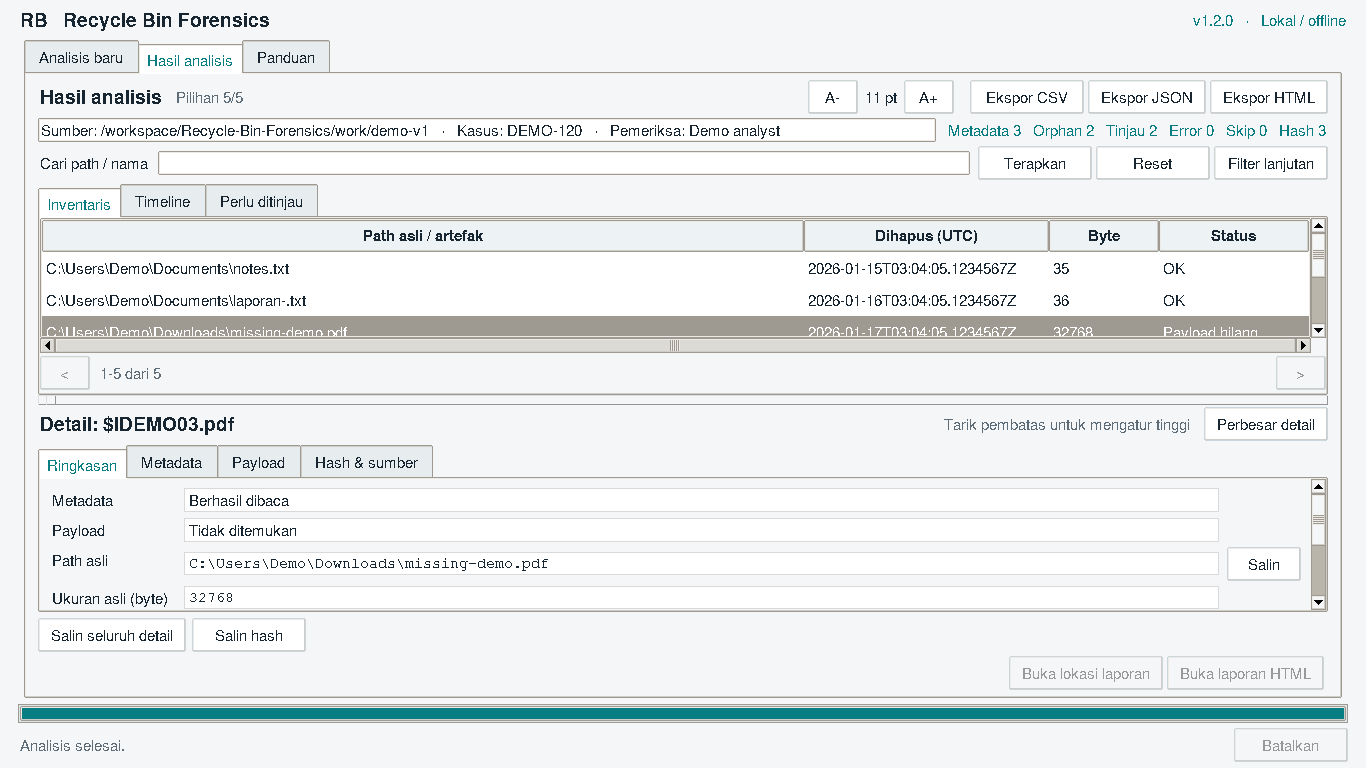
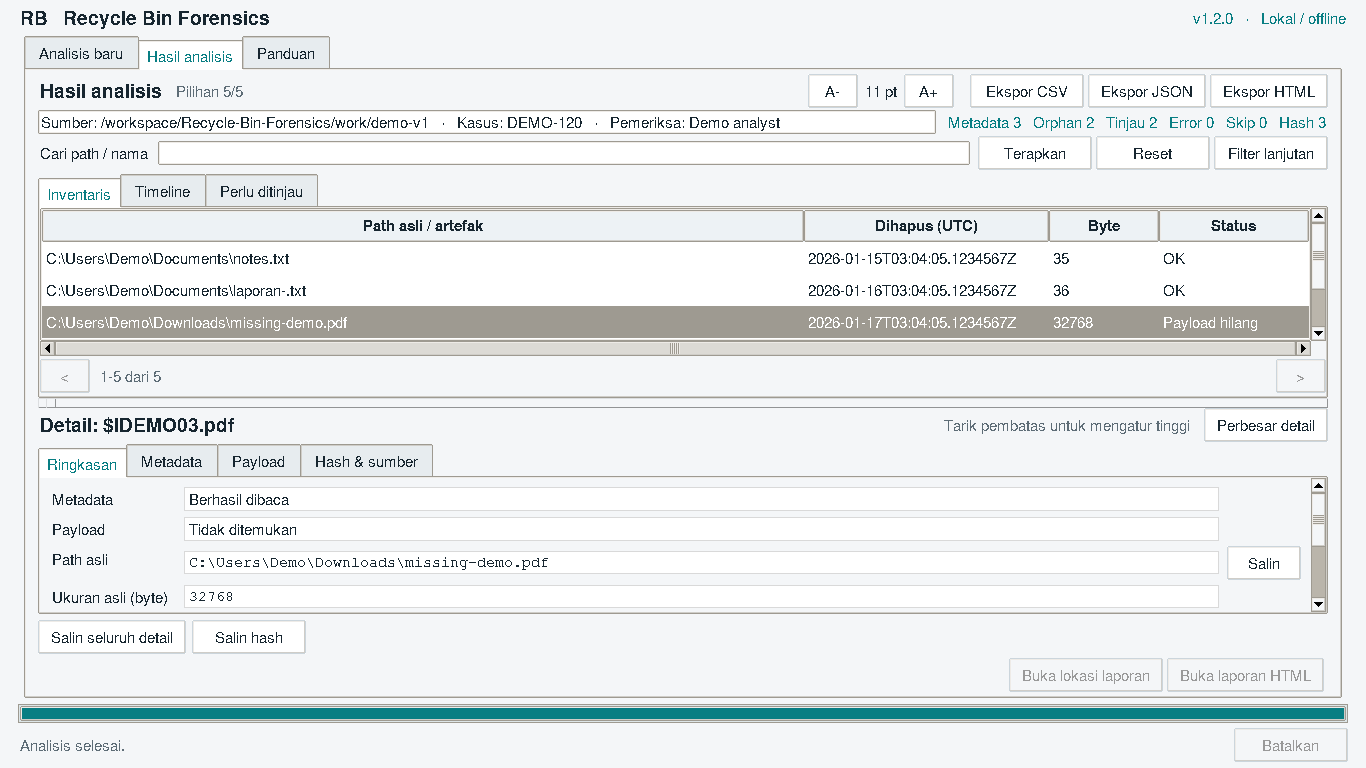
Keep desktop controls accessible across Tk versions and text sizes

Changed region(s): [[0.0, 0.0, 0.9839, 0.875], [0.7379, 0.8438, 0.9531, 0.9062], [0.3382, 0.125, 0.5842, 0.1875]]

diff --git a/src/rbinforensics/gui.py b/src/rbinforensics/gui.py
@@ -231,7 +231,7 @@ class ForensicsApp(tk.Tk if tk is not None else object):
         return widget
 
     def _build(self) -> None:
-        top = ttk.Frame(self, padding=(18, 7))
+        top = ttk.Frame(self, padding=(18, 5))
         top.pack(fill="x")
         ttk.Label(top, text="RB   Recycle Bin Forensics", style="Brand.TLabel").pack(side="left")
         ttk.Label(top, text=f"v{__version__}   ·   Lokal / offline", foreground=TEAL).pack(
@@ -240,7 +240,7 @@ class ForensicsApp(tk.Tk if tk is not None else object):
         self.notebook = ttk.Notebook(self)
         self.notebook.pack(fill="both", expand=True, padx=24)
         self.scan_page = ttk.Frame(self.notebook, padding=22)
-        self.results_page = ttk.Frame(self.notebook, padding=(12, 6))
+        self.results_page = ttk.Frame(self.notebook, padding=(12, 4))
         self.help_page = ttk.Frame(self.notebook, padding=22)
         for page, label in (
             (self.scan_page, "Analisis baru"),
@@ -377,20 +377,33 @@ class ForensicsApp(tk.Tk if tk is not None else object):
         parent = self.results_page
         bar = ttk.Frame(parent)
         bar.pack(fill="x")
-        ttk.Label(bar, text="Hasil analisis", style="Brand.TLabel").pack(side="left")
-        ttk.Label(bar, textvariable=self.selection_count_var, style="Muted.TLabel").pack(
+        bar.columnconfigure(0, weight=1)
+        heading = ttk.Frame(bar)
+        heading.grid(row=0, column=0, sticky="w")
+        ttk.Label(heading, text="Hasil analisis", style="Brand.TLabel").pack(side="left")
+        ttk.Label(heading, textvariable=self.selection_count_var, style="Muted.TLabel").pack(
             side="left", padx=10
         )
+        controls = ttk.Frame(bar)
+        controls.grid(row=0, column=1, sticky="e")
+
+        def fit_toolbar(_event=None) -> None:
+            stacked = heading.winfo_reqwidth() + controls.winfo_reqwidth() > bar.winfo_width()
+            controls.grid_configure(row=1 if stacked else 0, column=0 if stacked else 1)
+
+        bar.bind("<Configure>", fit_toolbar)
+        heading.bind("<Configure>", fit_toolbar)
+        controls.bind("<Configure>", fit_toolbar)
         self.export_buttons = []
         for format_name in ("html", "json", "csv"):
             button = ttk.Button(
-                bar,
+                controls,
                 text=f"Ekspor {format_name.upper()}",
                 command=lambda f=format_name: self.export_report(f),
             )
             button.pack(side="right", padx=(4, 0))
             self.export_buttons.append(button)
-        fonts = ttk.Frame(bar)
+        fonts = ttk.Frame(controls)
         fonts.pack(side="right", padx=12)
         self.font_smaller = ttk.Button(
             fonts, text="A-", width=3, command=lambda: self.change_font_size(-1)
@@ -402,7 +415,7 @@ class ForensicsApp(tk.Tk if tk is not None else object):
         )
         self.font_larger.pack(side="left")
         context_row = ttk.Frame(parent)
-        context_row.pack(fill="x", pady=4)
+        context_row.pack(fill="x", pady=2)
         ttk.Label(context_row, textvariable=self.stats_var, foreground=TEAL).pack(
             side="right", padx=(10, 0)
         )
@@ -445,14 +458,19 @@ class ForensicsApp(tk.Tk if tk is not None else object):
             self.advanced_filters.columnconfigure(column, weight=1)
         dates = ttk.Frame(self.advanced_filters)
         dates.grid(row=1, column=0, columnspan=4, sticky="ew", pady=(4, 0))
-        for label, variable in (("Dari", self.after_var), ("Sampai", self.before_var)):
-            ttk.Label(dates, text=label).pack(side="left", padx=(4, 6))
-            entry = ttk.Entry(dates, textvariable=variable, width=23)
-            entry.pack(side="left")
+        for column, (label, variable) in enumerate(
+            (("Dari", self.after_var), ("Sampai", self.before_var))
+        ):
+            dates.columnconfigure(column, weight=1, uniform="date")
+            field = ttk.Frame(dates)
+            field.grid(row=0, column=column, sticky="ew", padx=4)
+            ttk.Label(field, text=label).pack(side="left", padx=(0, 6))
+            entry = ttk.Entry(field, textvariable=variable, width=23)
             button = ttk.Button(
-                dates, text="Kalender", command=lambda v=variable: DatePicker(self, v)
+                field, text="Kalender", command=lambda v=variable: DatePicker(self, v)
             )
-            button.pack(side="left", padx=(4, 12))
+            button.pack(side="right", padx=(4, 0))
+            entry.pack(side="left", fill="x", expand=True)
             self.filter_inputs.extend((entry, button))
         self.results_split = WorkspacePane(
             parent,
@@ -530,7 +548,7 @@ class ForensicsApp(tk.Tk if tk is not None else object):
             page.rowconfigure(0, weight=1)
         detail_header = ttk.Frame(self._detail_frame)
         self.detail_header = detail_header
-        detail_header.pack(fill="x", pady=(2, 4))
+        detail_header.pack(fill="x", pady=(0, 2))
         self.detail_button = ttk.Button(
             detail_header, text="Perbesar detail", command=self.open_details
         )
@@ -604,14 +622,17 @@ class ForensicsApp(tk.Tk if tk is not None else object):
             self.result_tabs.winfo_reqheight() - tree.winfo_reqheight(),
             0,
         )
-        detail_chrome = self.detail_header.winfo_reqheight() + 6
+        detail_chrome = self.detail_header.winfo_reqheight() + 2
         wanted_table = table_chrome + 100
         wanted_detail = detail_chrome + 150
         if usable >= wanted_table + wanted_detail:
             table_min, detail_min = wanted_table, wanted_detail
         else:
-            table_min = min(wanted_table, int(usable * 0.48))
-            detail_min = min(wanted_detail, int(usable * 0.5))
+            # Share a genuine shortfall in proportion to the requested space;
+            # crossing the threshold by one pixel must not discard a row.
+            available = max(1, usable - 2)
+            table_min = int(available * wanted_table / (wanted_table + wanted_detail))
+            detail_min = available - table_min
         self.results_split.paneconfigure(self._table_frame, minsize=table_min)
         self.results_split.paneconfigure(self._detail_frame, minsize=detail_min)
         position = max(

diff --git a/tests/test_gui.py b/tests/test_gui.py
@@ -441,6 +441,27 @@ def test_font_controls_preserve_current_evidence_view_and_detail_window(app, evi
     assert json.dumps(app.session.report, sort_keys=True) == baseline
 
 
+def test_small_window_keeps_toolbar_controls_usable_at_every_font_size(app, evidence):
+    _scan(app, evidence)
+    app.geometry("1000x700")
+    app.toggle_filters()
+    for size in range(9, 17):
+        app.change_font_size(size - app.font_size_var.get())
+        app.update()
+        calendars = [widget for widget in app.filter_inputs if widget.winfo_class() == "TButton"]
+        controls = [app.font_smaller, app.font_larger, *app.export_buttons, *calendars]
+        for control in controls:
+            assert control.winfo_ismapped(), (size, control)
+            assert control.winfo_width() >= control.winfo_reqwidth(), (size, control)
+            assert control.winfo_rootx() >= app.winfo_rootx()
+            assert (
+                control.winfo_rootx() + control.winfo_width()
+                <= app.winfo_rootx() + app.winfo_width()
+            ), (size, control)
+        assert app.progress.winfo_ismapped()
+        assert app.detail_button.winfo_ismapped()
+
+
 def test_heading_sorting_is_exact_and_keeps_unknown_values_last(app, tmp_path):
     directory = tmp_path.resolve() / "sort-evidence"
     directory.mkdir()

diff --git a/docs/DESKTOP.md b/docs/DESKTOP.md
@@ -98,7 +98,7 @@ Tables show up to 200 records per page. Use the arrow buttons and range counter 
 
 ### Give the table or details more room
 
-Drag the horizontal separator between the table and detail area to change their relative heights. The areas retain usable minimum sizes. **Perbesar detail** opens the selected record in a separate resizable window, which can be maximized through the operating system. The enlarged window follows the current selection; clearing a selection, changing pages, or starting another scan must not leave a different record looking current in that window.
+Drag the horizontal separator between the table and detail area to change their relative heights. On a small screen with large text, fold the advanced filters away after applying them to give the results room; the toolbar uses an extra row when its controls need it. **Perbesar detail** opens the selected record in a separate resizable window, which can be maximized through the operating system. The enlarged window follows the current selection; clearing a selection, changing pages, or starting another scan must not leave a different record looking current in that window.
 
 Compare the [compact workspace preview](images/desktop-compact.png) with the [enlarged detail preview](images/desktop-detail.png). Both use fictitious demonstration records.
 

diff --git a/CHANGELOG.md b/CHANGELOG.md
@@ -7,6 +7,7 @@
 - A full-width detail area below the results table, with an adjustable table/detail separator.
 - A resizable separate detail window and grouped summary, metadata, payload, and hash/source fields.
 - Quick search with foldable advanced filters, a compact full-scan summary, and adjustable desktop text size.
+- A responsive toolbar and date inputs that preserve button access on narrow windows with enlarged text.
 - Clickable desktop column headings to sort the complete view by path, deletion time, size, or status before pagination.
 - Presentation and native-widget regression coverage for detail selection, sorting precision, font changes, and workspace sizing.
 
